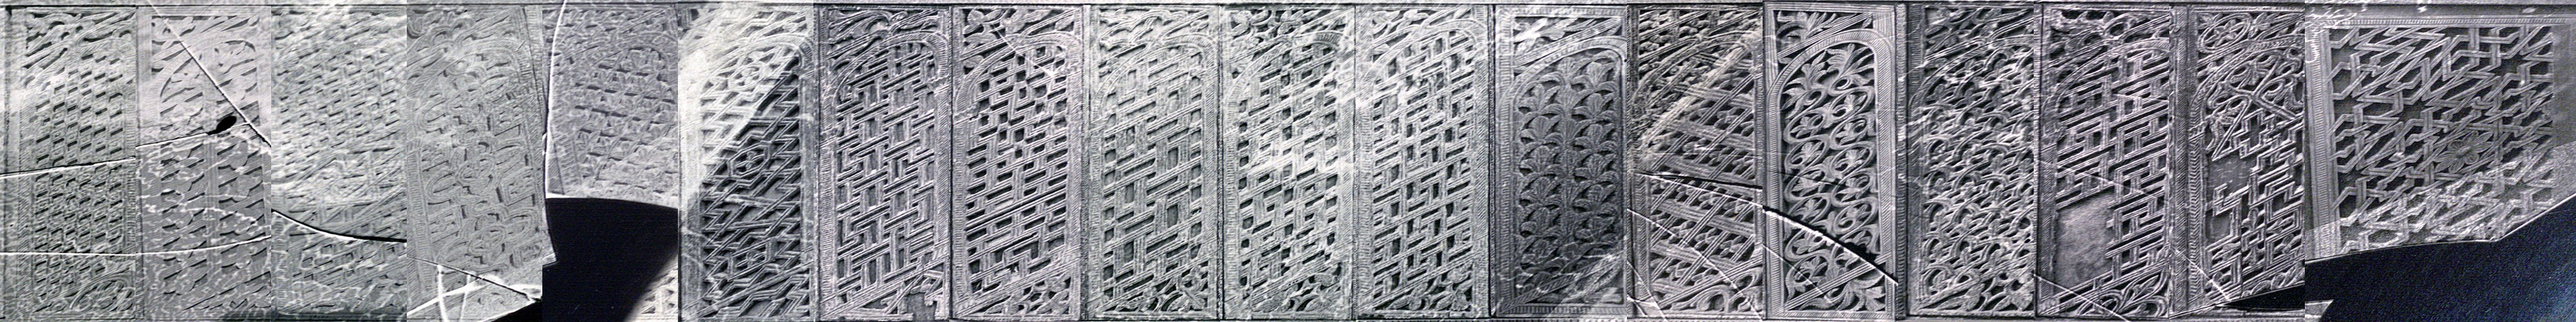
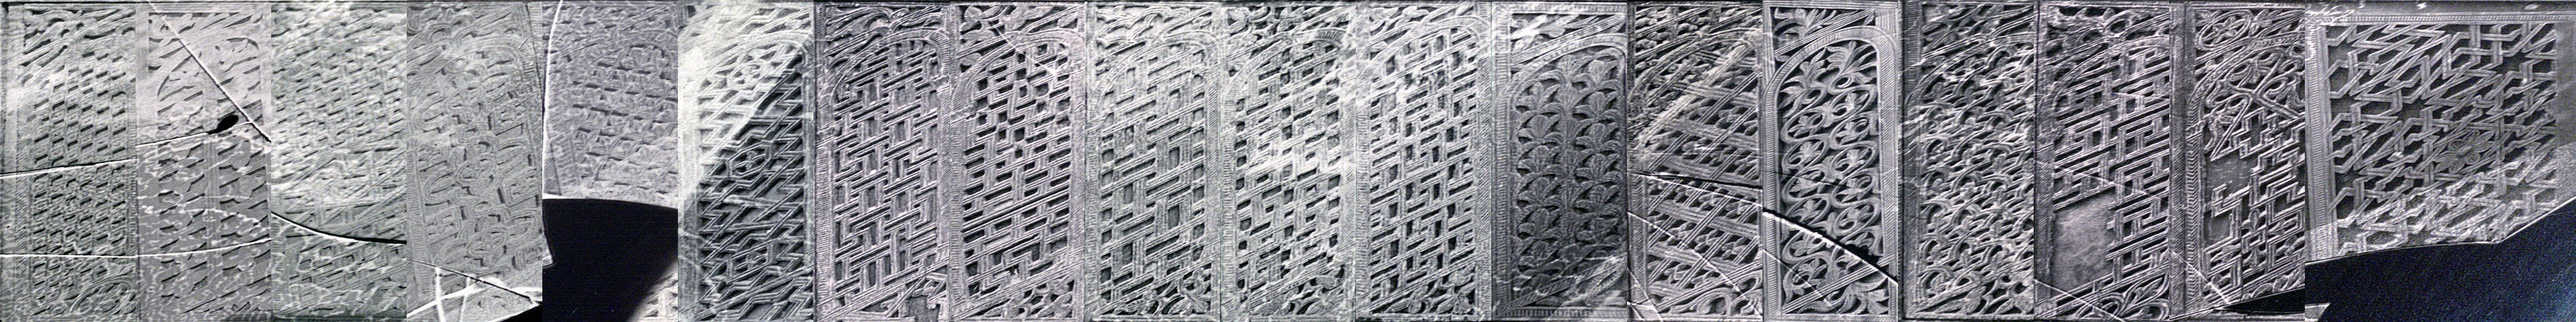
3D model: rail panels at the size of the actual panels
On the mihrab-side rail each panel box is re-measured on Creswell's
photograph (the whole panel between its uprights, top member and bottom
bar); on the maqsura-side rail the widths of the panels and uprights are
measured on the restoration photographs. The rail photographs are cut
exactly to their panels.

diff --git a/3d/data.js b/3d/data.js
@@ -1,6 +1,6 @@
 // Panel outlines traced on Creswell 1940, Pl. 89a (image space 3000 x 2262), from ../index.html.
 // f<n>: position of Saladin's panel n on the mihrab-side face; b<j>: balustrade position j from the top.
-const SLOTS = [{"id":"f1","kind":"panel","n":1,"col":1,"row":1,"of":8,"pts":[[490,1985],[655,1985],[655,2065],[490,2065]]},{"id":"f14","kind":"panel","n":14,"col":1,"row":2,"of":8,"pts":[[490,1740],[655,1740],[655,1940],[490,1940]]},{"id":"f25","kind":"panel","n":25,"col":1,"row":3,"of":8,"pts":[[490,1495],[650,1495],[650,1695],[490,1695]]},{"id":"f34","kind":"panel","n":34,"col":1,"row":4,"of":8,"pts":[[490,1235],[650,1235],[650,1425],[490,1425]]},{"id":"f41","kind":"panel","n":41,"col":1,"row":5,"of":8,"pts":[[490,975],[655,975],[655,1185],[490,1185]]},{"id":"f46","kind":"panel","n":46,"col":1,"row":6,"of":8,"pts":[[490,720],[655,720],[655,935],[490,935]]},{"id":"f49","kind":"panel","n":49,"col":1,"row":7,"of":8,"pts":[[490,460],[660,460],[660,680],[490,680]]},{"id":"f51","kind":"panel","n":51,"col":1,"row":8,"of":8,"pts":[[495,200],[640,200],[640,390],[495,390]]},{"id":"f2","kind":"panel","n":2,"col":2,"row":1,"of":8,"pts":[[750,1870],[860,1870],[860,2065],[750,2065]]},{"id":"f15","kind":"panel","n":15,"col":2,"row":2,"of":8,"pts":[[750,1620],[870,1620],[870,1820],[750,1820]]},{"id":"f26","kind":"panel","n":26,"col":2,"row":3,"of":8,"pts":[[750,1365],[860,1365],[860,1565],[750,1565]]},{"id":"f35","kind":"panel","n":35,"col":2,"row":4,"of":8,"pts":[[750,1105],[860,1105],[860,1310],[750,1310]]},{"id":"f42","kind":"panel","n":42,"col":2,"row":5,"of":8,"pts":[[755,855],[865,855],[865,1050],[755,1050]]},{"id":"f47","kind":"panel","n":47,"col":2,"row":6,"of":8,"pts":[[750,735],[870,735],[870,800],[750,800]]},{"id":"f50","kind":"panel","n":50,"col":2,"row":7,"of":8,"pts":[[740,460],[848,460],[848,660],[740,660]]},{"id":"f52","kind":"panel","n":52,"col":2,"row":8,"of":8,"pts":[[737,245],[848,245],[848,425],[737,425]]},{"id":"f3","kind":"panel","n":3,"col":3,"row":1,"of":6,"pts":[[915,2015],[1035,2015],[1035,2070],[915,2070]]},{"id":"f16","kind":"panel","n":16,"col":3,"row":2,"of":6,"pts":[[915,1760],[1035,1760],[1035,1960],[915,1960]]},{"id":"f27","kind":"panel","n":27,"col":3,"row":3,"of":6,"pts":[[915,1495],[1035,1495],[1035,1710],[915,1710]]},{"id":"f36","kind":"panel","n":36,"col":3,"row":4,"of":6,"pts":[[920,1245],[1035,1245],[1035,1450],[920,1450]]},{"id":"f43","kind":"panel","n":43,"col":3,"row":5,"of":6,"pts":[[925,990],[1038,990],[1038,1190],[925,1190]]},{"id":"f48","kind":"panel","n":48,"col":3,"row":6,"of":6,"pts":[[925,740],[1040,740],[1040,940],[925,940]]},{"id":"f4","kind":"panel","n":4,"col":4,"row":1,"of":5,"pts":[[1120,1870],[1205,1870],[1205,2070],[1120,2070]]},{"id":"f17","kind":"panel","n":17,"col":4,"row":2,"of":5,"pts":[[1120,1620],[1205,1620],[1205,1820],[1120,1820]]},{"id":"f28","kind":"panel","n":28,"col":4,"row":3,"of":5,"pts":[[1122,1375],[1200,1375],[1200,1570],[1122,1570]]},{"id":"f37","kind":"panel","n":37,"col":4,"row":4,"of":5,"pts":[[1125,1105],[1200,1105],[1200,1315],[1125,1315]]},{"id":"f44","kind":"panel","n":44,"col":4,"row":5,"of":5,"pts":[[1125,878],[1200,878],[1200,1062],[1125,1062]]},{"id":"f5","kind":"panel","n":5,"col":5,"row":1,"of":5,"pts":[[1240,2010],[1355,2010],[1355,2085],[1240,2085]]},{"id":"f18","kind":"panel","n":18,"col":5,"row":2,"of":5,"pts":[[1240,1760],[1355,1760],[1355,1970],[1240,1970]]},{"id":"f29","kind":"panel","n":29,"col":5,"row":3,"of":5,"pts":[[1245,1505],[1355,1505],[1355,1705],[1245,1705]]},{"id":"f38","kind":"panel","n":38,"col":5,"row":4,"of":5,"pts":[[1250,1250],[1365,1250],[1365,1450],[1250,1450]]},{"id":"f45","kind":"panel","n":45,"col":5,"row":5,"of":5,"pts":[[1250,990],[1365,990],[1365,1195],[1250,1195]]},{"id":"f6","kind":"panel","n":6,"col":6,"row":1,"of":4,"pts":[[1405,1880],[1520,1880],[1520,2090],[1405,2090]]},{"id":"f19","kind":"panel","n":19,"col":6,"row":2,"of":4,"pts":[[1405,1625],[1525,1625],[1525,1840],[1405,1840]]},{"id":"f30","kind":"panel","n":30,"col":6,"row":3,"of":4,"pts":[[1410,1370],[1525,1370],[1525,1575],[1410,1575]]},{"id":"f39","kind":"panel","n":39,"col":6,"row":4,"of":4,"pts":[[1410,1110],[1525,1110],[1525,1320],[1410,1320]]},{"id":"f7","kind":"panel","n":7,"col":7,"row":1,"of":4,"pts":[[1595,2015],[1680,2015],[1680,2090],[1595,2090]]},{"id":"f20","kind":"panel","n":20,"col":7,"row":2,"of":4,"pts":[[1595,1760],[1680,1760],[1680,1970],[1595,1970]]},{"id":"f31","kind":"panel","n":31,"col":7,"row":3,"of":4,"pts":[[1595,1495],[1685,1495],[1685,1705],[1595,1705]]},{"id":"f40","kind":"panel","n":40,"col":7,"row":4,"of":4,"pts":[[1595,1230],[1695,1230],[1695,1460],[1595,1460]]},{"id":"f8","kind":"panel","n":8,"col":8,"row":1,"of":3,"pts":[[1730,1880],[1830,1880],[1830,2090],[1730,2090]]},{"id":"f21","kind":"panel","n":21,"col":8,"row":2,"of":3,"pts":[[1730,1635],[1835,1635],[1835,1835],[1730,1835]]},{"id":"f32","kind":"panel","n":32,"col":8,"row":3,"of":3,"pts":[[1735,1385],[1845,1385],[1845,1590],[1735,1590]]},{"id":"f9","kind":"panel","n":9,"col":9,"row":1,"of":3,"pts":[[1885,2005],[2000,2005],[2000,2085],[1885,2085]]},{"id":"f22","kind":"panel","n":22,"col":9,"row":2,"of":3,"pts":[[1885,1755],[2000,1755],[2000,1960],[1885,1960]]},{"id":"f33","kind":"panel","n":33,"col":9,"row":3,"of":3,"pts":[[1885,1490],[2005,1490],[2005,1700],[1885,1700]]},{"id":"f10","kind":"panel","n":10,"col":10,"row":1,"of":2,"pts":[[2050,1885],[2165,1885],[2165,2085],[2050,2085]]},{"id":"f23","kind":"panel","n":23,"col":10,"row":2,"of":2,"pts":[[2050,1630],[2165,1630],[2165,1835],[2050,1835]]},{"id":"f11","kind":"panel","n":11,"col":11,"row":1,"of":2,"pts":[[2205,2005],[2320,2005],[2320,2075],[2205,2075]]},{"id":"f24","kind":"panel","n":24,"col":11,"row":2,"of":2,"pts":[[2205,1750],[2325,1750],[2325,1965],[2205,1965]]},{"id":"f12","kind":"panel","n":12,"col":12,"row":1,"of":1,"pts":[[2370,1880],[2490,1880],[2490,2080],[2370,2080]]},{"id":"f13","kind":"panel","n":13,"col":13,"row":1,"of":1,"pts":[[2540,1870],[2650,1870],[2650,2070],[2540,2070]]},{"id":"f70","kind":"tri","n":70,"col":3,"pts":[[925,575],[1055,680],[925,680]]},{"id":"f71","kind":"tri","n":71,"col":4,"pts":[[1090,700],[1205,820],[1090,820]]},{"id":"f72","kind":"tri","n":72,"col":5,"pts":[[1248,850],[1375,940],[1248,940]]},{"id":"f73","kind":"tri","n":73,"col":6,"pts":[[1412,950],[1535,1060],[1412,1060]]},{"id":"f74","kind":"tri","n":74,"col":7,"pts":[[1580,1100],[1700,1195],[1580,1195]]},{"id":"f75","kind":"tri","n":75,"col":8,"pts":[[1735,1250],[1868,1335],[1735,1335]]},{"id":"f76","kind":"tri","n":76,"col":9,"pts":[[1900,1355],[2040,1450],[1900,1450]]},{"id":"f77","kind":"tri","n":77,"col":10,"pts":[[2055,1485],[2185,1582],[2055,1582]]},{"id":"f78","kind":"tri","n":78,"col":11,"pts":[[2210,1600],[2330,1698],[2210,1698]]},{"id":"f79","kind":"tri","n":79,"col":12,"pts":[[2375,1712],[2505,1832],[2375,1832]]},{"id":"b1","kind":"rail","pos":1,"was":68,"pts":[[930,290],[990,334],[990,540],[930,496]]},{"id":"b2","kind":"rail","pos":2,"was":67,"pts":[[1025,370],[1105,428],[1105,630],[1025,572]]},{"id":"b3","kind":"rail","pos":3,"was":65,"pts":[[1130,460],[1205,515],[1205,740],[1130,685]]},{"id":"b4","kind":"rail","pos":4,"was":60,"pts":[[1240,560],[1310,611],[1310,820],[1240,769]]},{"id":"b5","kind":"rail","pos":5,"was":64,"pts":[[1350,650],[1410,694],[1410,890],[1350,846]]},{"id":"b6","kind":"rail","pos":6,"was":56,"pts":[[1450,740],[1520,791],[1520,980],[1450,929]]},{"id":"b7","kind":"rail","pos":7,"was":63,"pts":[[1560,820],[1625,867],[1625,1055],[1560,1008]]},{"id":"b8","kind":"rail","pos":8,"was":61,"pts":[[1670,890],[1730,934],[1730,1140],[1670,1096]]},{"id":"b9","kind":"rail","pos":9,"was":59,"pts":[[1770,980],[1830,1024],[1830,1220],[1770,1176]]},{"id":"b10","kind":"rail","pos":10,"new":true,"pts":[[1872,1080],[1932,1124],[1932,1300],[1872,1256]]},{"id":"b11","kind":"rail","pos":11,"was":58,"pts":[[1970,1170],[2040,1221],[2040,1380],[1970,1329]]},{"id":"b12","kind":"rail","pos":12,"was":57,"pts":[[2080,1260],[2150,1311],[2150,1480],[2080,1429]]},{"id":"b13","kind":"rail","pos":13,"was":62,"pts":[[2185,1330],[2250,1377],[2250,1550],[2185,1503]]},{"id":"b14","kind":"rail","pos":14,"was":55,"pts":[[2300,1420],[2355,1460],[2355,1625],[2300,1585]]},{"id":"b15","kind":"rail","pos":15,"was":54,"pts":[[2400,1500],[2458,1542],[2458,1720],[2400,1678]]},{"id":"b16","kind":"rail","pos":16,"new":true,"pts":[[2510,1550],[2645,1649],[2645,1835],[2510,1736]]}];
+const SLOTS = [{"id":"f1","kind":"panel","n":1,"col":1,"row":1,"of":8,"pts":[[490,1985],[655,1985],[655,2065],[490,2065]]},{"id":"f14","kind":"panel","n":14,"col":1,"row":2,"of":8,"pts":[[490,1740],[655,1740],[655,1940],[490,1940]]},{"id":"f25","kind":"panel","n":25,"col":1,"row":3,"of":8,"pts":[[490,1495],[650,1495],[650,1695],[490,1695]]},{"id":"f34","kind":"panel","n":34,"col":1,"row":4,"of":8,"pts":[[490,1235],[650,1235],[650,1425],[490,1425]]},{"id":"f41","kind":"panel","n":41,"col":1,"row":5,"of":8,"pts":[[490,975],[655,975],[655,1185],[490,1185]]},{"id":"f46","kind":"panel","n":46,"col":1,"row":6,"of":8,"pts":[[490,720],[655,720],[655,935],[490,935]]},{"id":"f49","kind":"panel","n":49,"col":1,"row":7,"of":8,"pts":[[490,460],[660,460],[660,680],[490,680]]},{"id":"f51","kind":"panel","n":51,"col":1,"row":8,"of":8,"pts":[[495,200],[640,200],[640,390],[495,390]]},{"id":"f2","kind":"panel","n":2,"col":2,"row":1,"of":8,"pts":[[750,1870],[860,1870],[860,2065],[750,2065]]},{"id":"f15","kind":"panel","n":15,"col":2,"row":2,"of":8,"pts":[[750,1620],[870,1620],[870,1820],[750,1820]]},{"id":"f26","kind":"panel","n":26,"col":2,"row":3,"of":8,"pts":[[750,1365],[860,1365],[860,1565],[750,1565]]},{"id":"f35","kind":"panel","n":35,"col":2,"row":4,"of":8,"pts":[[750,1105],[860,1105],[860,1310],[750,1310]]},{"id":"f42","kind":"panel","n":42,"col":2,"row":5,"of":8,"pts":[[755,855],[865,855],[865,1050],[755,1050]]},{"id":"f47","kind":"panel","n":47,"col":2,"row":6,"of":8,"pts":[[750,735],[870,735],[870,800],[750,800]]},{"id":"f50","kind":"panel","n":50,"col":2,"row":7,"of":8,"pts":[[740,460],[848,460],[848,660],[740,660]]},{"id":"f52","kind":"panel","n":52,"col":2,"row":8,"of":8,"pts":[[737,245],[848,245],[848,425],[737,425]]},{"id":"f3","kind":"panel","n":3,"col":3,"row":1,"of":6,"pts":[[915,2015],[1035,2015],[1035,2070],[915,2070]]},{"id":"f16","kind":"panel","n":16,"col":3,"row":2,"of":6,"pts":[[915,1760],[1035,1760],[1035,1960],[915,1960]]},{"id":"f27","kind":"panel","n":27,"col":3,"row":3,"of":6,"pts":[[915,1495],[1035,1495],[1035,1710],[915,1710]]},{"id":"f36","kind":"panel","n":36,"col":3,"row":4,"of":6,"pts":[[920,1245],[1035,1245],[1035,1450],[920,1450]]},{"id":"f43","kind":"panel","n":43,"col":3,"row":5,"of":6,"pts":[[925,990],[1038,990],[1038,1190],[925,1190]]},{"id":"f48","kind":"panel","n":48,"col":3,"row":6,"of":6,"pts":[[925,740],[1040,740],[1040,940],[925,940]]},{"id":"f4","kind":"panel","n":4,"col":4,"row":1,"of":5,"pts":[[1120,1870],[1205,1870],[1205,2070],[1120,2070]]},{"id":"f17","kind":"panel","n":17,"col":4,"row":2,"of":5,"pts":[[1120,1620],[1205,1620],[1205,1820],[1120,1820]]},{"id":"f28","kind":"panel","n":28,"col":4,"row":3,"of":5,"pts":[[1122,1375],[1200,1375],[1200,1570],[1122,1570]]},{"id":"f37","kind":"panel","n":37,"col":4,"row":4,"of":5,"pts":[[1125,1105],[1200,1105],[1200,1315],[1125,1315]]},{"id":"f44","kind":"panel","n":44,"col":4,"row":5,"of":5,"pts":[[1125,878],[1200,878],[1200,1062],[1125,1062]]},{"id":"f5","kind":"panel","n":5,"col":5,"row":1,"of":5,"pts":[[1240,2010],[1355,2010],[1355,2085],[1240,2085]]},{"id":"f18","kind":"panel","n":18,"col":5,"row":2,"of":5,"pts":[[1240,1760],[1355,1760],[1355,1970],[1240,1970]]},{"id":"f29","kind":"panel","n":29,"col":5,"row":3,"of":5,"pts":[[1245,1505],[1355,1505],[1355,1705],[1245,1705]]},{"id":"f38","kind":"panel","n":38,"col":5,"row":4,"of":5,"pts":[[1250,1250],[1365,1250],[1365,1450],[1250,1450]]},{"id":"f45","kind":"panel","n":45,"col":5,"row":5,"of":5,"pts":[[1250,990],[1365,990],[1365,1195],[1250,1195]]},{"id":"f6","kind":"panel","n":6,"col":6,"row":1,"of":4,"pts":[[1405,1880],[1520,1880],[1520,2090],[1405,2090]]},{"id":"f19","kind":"panel","n":19,"col":6,"row":2,"of":4,"pts":[[1405,1625],[1525,1625],[1525,1840],[1405,1840]]},{"id":"f30","kind":"panel","n":30,"col":6,"row":3,"of":4,"pts":[[1410,1370],[1525,1370],[1525,1575],[1410,1575]]},{"id":"f39","kind":"panel","n":39,"col":6,"row":4,"of":4,"pts":[[1410,1110],[1525,1110],[1525,1320],[1410,1320]]},{"id":"f7","kind":"panel","n":7,"col":7,"row":1,"of":4,"pts":[[1595,2015],[1680,2015],[1680,2090],[1595,2090]]},{"id":"f20","kind":"panel","n":20,"col":7,"row":2,"of":4,"pts":[[1595,1760],[1680,1760],[1680,1970],[1595,1970]]},{"id":"f31","kind":"panel","n":31,"col":7,"row":3,"of":4,"pts":[[1595,1495],[1685,1495],[1685,1705],[1595,1705]]},{"id":"f40","kind":"panel","n":40,"col":7,"row":4,"of":4,"pts":[[1595,1230],[1695,1230],[1695,1460],[1595,1460]]},{"id":"f8","kind":"panel","n":8,"col":8,"row":1,"of":3,"pts":[[1730,1880],[1830,1880],[1830,2090],[1730,2090]]},{"id":"f21","kind":"panel","n":21,"col":8,"row":2,"of":3,"pts":[[1730,1635],[1835,1635],[1835,1835],[1730,1835]]},{"id":"f32","kind":"panel","n":32,"col":8,"row":3,"of":3,"pts":[[1735,1385],[1845,1385],[1845,1590],[1735,1590]]},{"id":"f9","kind":"panel","n":9,"col":9,"row":1,"of":3,"pts":[[1885,2005],[2000,2005],[2000,2085],[1885,2085]]},{"id":"f22","kind":"panel","n":22,"col":9,"row":2,"of":3,"pts":[[1885,1755],[2000,1755],[2000,1960],[1885,1960]]},{"id":"f33","kind":"panel","n":33,"col":9,"row":3,"of":3,"pts":[[1885,1490],[2005,1490],[2005,1700],[1885,1700]]},{"id":"f10","kind":"panel","n":10,"col":10,"row":1,"of":2,"pts":[[2050,1885],[2165,1885],[2165,2085],[2050,2085]]},{"id":"f23","kind":"panel","n":23,"col":10,"row":2,"of":2,"pts":[[2050,1630],[2165,1630],[2165,1835],[2050,1835]]},{"id":"f11","kind":"panel","n":11,"col":11,"row":1,"of":2,"pts":[[2205,2005],[2320,2005],[2320,2075],[2205,2075]]},{"id":"f24","kind":"panel","n":24,"col":11,"row":2,"of":2,"pts":[[2205,1750],[2325,1750],[2325,1965],[2205,1965]]},{"id":"f12","kind":"panel","n":12,"col":12,"row":1,"of":1,"pts":[[2370,1880],[2490,1880],[2490,2080],[2370,2080]]},{"id":"f13","kind":"panel","n":13,"col":13,"row":1,"of":1,"pts":[[2540,1870],[2650,1870],[2650,2070],[2540,2070]]},{"id":"f70","kind":"tri","n":70,"col":3,"pts":[[925,575],[1055,680],[925,680]]},{"id":"f71","kind":"tri","n":71,"col":4,"pts":[[1090,700],[1205,820],[1090,820]]},{"id":"f72","kind":"tri","n":72,"col":5,"pts":[[1248,850],[1375,940],[1248,940]]},{"id":"f73","kind":"tri","n":73,"col":6,"pts":[[1412,950],[1535,1060],[1412,1060]]},{"id":"f74","kind":"tri","n":74,"col":7,"pts":[[1580,1100],[1700,1195],[1580,1195]]},{"id":"f75","kind":"tri","n":75,"col":8,"pts":[[1735,1250],[1868,1335],[1735,1335]]},{"id":"f76","kind":"tri","n":76,"col":9,"pts":[[1900,1355],[2040,1450],[1900,1450]]},{"id":"f77","kind":"tri","n":77,"col":10,"pts":[[2055,1485],[2185,1582],[2055,1582]]},{"id":"f78","kind":"tri","n":78,"col":11,"pts":[[2210,1600],[2330,1698],[2210,1698]]},{"id":"f79","kind":"tri","n":79,"col":12,"pts":[[2375,1712],[2505,1832],[2375,1832]]},{"id":"b1","kind":"rail","pos":1,"was":68,"pts":[[927.0,275.6],[992.5,327.8],[992.5,567.8],[927.0,515.6]]},{"id":"b2","kind":"rail","pos":2,"was":67,"pts":[[1025.6,354.2],[1105.4,417.9],[1105.4,657.9],[1025.6,594.2]]},{"id":"b3","kind":"rail","pos":3,"was":65,"pts":[[1130.6,438.0],[1204.9,497.2],[1204.9,737.2],[1130.6,678.0]]},{"id":"b4","kind":"rail","pos":4,"was":60,"pts":[[1240.8,525.9],[1310.2,581.2],[1310.2,821.2],[1240.8,765.9]]},{"id":"b5","kind":"rail","pos":5,"was":64,"pts":[[1348.5,611.8],[1412.5,662.8],[1412.5,902.8],[1348.5,851.8]]},{"id":"b6","kind":"rail","pos":6,"was":56,"pts":[[1448.3,691.3],[1521.7,749.9],[1521.7,989.9],[1448.3,931.3]]},{"id":"b7","kind":"rail","pos":7,"was":63,"pts":[[1558.2,779.0],[1627.8,834.5],[1627.8,1074.5],[1558.2,1019.0]]},{"id":"b8","kind":"rail","pos":8,"was":61,"pts":[[1665.1,864.2],[1733.4,918.7],[1733.4,1158.7],[1665.1,1104.2]]},{"id":"b9","kind":"rail","pos":9,"was":59,"pts":[[1767.6,946.0],[1830.9,996.5],[1830.9,1236.5],[1767.6,1186.0]]},{"id":"b10","kind":"rail","pos":10,"new":true,"pts":[[1865.9,1024.4],[1933.1,1078.0],[1933.1,1318.0],[1865.9,1264.4]]},{"id":"b11","kind":"rail","pos":11,"was":58,"pts":[[1971.6,1108.7],[2041.9,1164.7],[2041.9,1404.7],[1971.6,1348.7]]},{"id":"b12","kind":"rail","pos":12,"was":57,"pts":[[2077.0,1192.7],[2151.0,1251.7],[2151.0,1491.7],[2077.0,1432.7]]},{"id":"b13","kind":"rail","pos":13,"was":62,"pts":[[2182.6,1276.9],[2251.4,1331.8],[2251.4,1571.8],[2182.6,1516.9]]},{"id":"b14","kind":"rail","pos":14,"was":55,"pts":[[2288.1,1361.1],[2356.9,1416.0],[2356.9,1656.0],[2288.1,1601.1]]},{"id":"b15","kind":"rail","pos":15,"was":54,"pts":[[2395.6,1446.8],[2464.4,1501.7],[2464.4,1741.7],[2395.6,1686.8]]},{"id":"b16","kind":"rail","pos":16,"new":true,"pts":[[2505.6,1534.5],[2646.9,1647.2],[2646.9,1887.2],[2505.6,1774.5]]}];
 // Reconstruction drawings from ../dr/web/, each on the position of its panel (edits.json decides the position).
 const DRAW = [{"n":1,"slot":"f1","note":"","v":[{"label":"grooved","src":"../dr/web/panel-1-grooved.jpg"},{"label":"pearled","src":"../dr/web/panel-1-pearled.jpg"}]},{"n":6,"slot":"f6","note":"","v":[{"label":"double line","src":"../dr/web/panel-6-double-line.jpg"}]},{"n":8,"slot":"f8","note":"","v":[{"label":"wood colour, grooved","src":"../dr/web/panel-8-wood-colour-grooved.jpg"}]},{"n":15,"slot":"f15","note":"","v":[{"label":"wood colour, braid B","src":"../dr/web/panel-15-wood-colour-braid-b.jpg"},{"label":"wood colour, braid A","src":"../dr/web/panel-15-wood-colour-braid-a.jpg"}]},{"n":16,"slot":"f16","note":"","v":[{"label":"double line","src":"../dr/web/panel-16-double-line.jpg"}]},{"n":17,"slot":"f17","note":"","v":[{"label":"single line, unfinished","src":"../dr/web/panel-17-single-line-unfinished.jpg"}]},{"n":18,"slot":"f18","note":"","v":[{"label":"grooved","src":"../dr/web/panel-18-grooved.jpg"},{"label":"pearled","src":"../dr/web/panel-18-pearled.jpg"}]},{"n":22,"slot":"f22","note":"","v":[{"label":"wood colour","src":"../dr/web/panel-22-wood-colour.jpg"}]},{"n":23,"slot":"f23","note":"","v":[{"label":"grooved","src":"../dr/web/panel-23-grooved.jpg"},{"label":"pearled","src":"../dr/web/panel-23-pearled.jpg"}]},{"n":24,"slot":"f24","note":"","v":[{"label":"double line","src":"../dr/web/panel-24-double-line.jpg"}]},{"n":32,"slot":"f32","note":"","v":[{"label":"double line","src":"../dr/web/panel-32-double-line.jpg"}]},{"n":35,"slot":"f35","note":"","v":[{"label":"double line","src":"../dr/web/panel-35-double-line.jpg"}]},{"n":36,"slot":"f36","note":"","v":[{"label":"wood colour","src":"../dr/web/panel-36-wood-colour.jpg"}]},{"n":37,"slot":"f37","note":"","v":[{"label":"grooved","src":"../dr/web/panel-37-grooved.jpg"},{"label":"pearled","src":"../dr/web/panel-37-pearled.jpg"}]},{"n":38,"slot":"f38","note":"","v":[{"label":"grooved","src":"../dr/web/panel-38-grooved.jpg"},{"label":"pearled","src":"../dr/web/panel-38-pearled.jpg"}]},{"n":41,"slot":"f41","note":"","v":[{"label":"double line, unfinished","src":"../dr/web/panel-41-double-line-unfinished.jpg"}]},{"n":42,"slot":"f42","note":"","v":[{"label":"double line","src":"../dr/web/panel-42-double-line.jpg"}]},{"n":43,"slot":"f43","note":"","v":[{"label":"grooved","src":"../dr/web/panel-43-grooved.jpg"},{"label":"pearled","src":"../dr/web/panel-43-pearled.jpg"}]},{"n":47,"slot":"f47","note":"","v":[{"label":"double line","src":"../dr/web/panel-47-double-line.jpg"}]},{"n":48,"slot":"f48","note":"","v":[{"label":"wood colour","src":"../dr/web/panel-48-wood-colour.jpg"}]},{"n":50,"slot":"f50","note":"This is the panel that stood here before 1907; the saved edits mark it as no longer on the minbar","v":[{"label":"wood colour, braid B","src":"../dr/web/panel-50-wood-colour-braid-b.jpg"}]}];
 // Outlines on the photograph of before 1907 (Garrigues no. 271, image space 3600 x 2629), by Saladin number.
@@ -9,3 +9,6 @@ const BEFORE = {"1":[[885,2248],[1058,2248],[1058,2340],[885,2340]],"2":[[1140,2
 const BAL = {1:null,2:15,3:14,4:6,5:12,6:11,7:9,8:4,9:8,10:13,11:7,12:5,13:3,14:null,15:2,16:1,17:null};
 // Golvin 1970, fig. 84: his numbers by Creswell position, as on the panel site (the stair rail is 63-78).
 const GOLVIN = {"f51":1,"f49":2,"f46":3,"f41":4,"f34":5,"f25":6,"f14":7,"f1":8,"f52":9,"f50":10,"f47":11,"f42":12,"f35":13,"f26":14,"f15":15,"f2":16,"f70":17,"f48":18,"f43":19,"f36":20,"f27":21,"f16":22,"f3":23,"f71":24,"f44":25,"f37":26,"f28":27,"f17":28,"f4":29,"f72":30,"f45":31,"f38":32,"f29":33,"f18":34,"f5":35,"f73":36,"f39":37,"f30":38,"f19":39,"f6":40,"f74":41,"f40":42,"f31":43,"f20":44,"f7":45,"f75":46,"f32":47,"f21":48,"f8":49,"f76":50,"f33":51,"f22":52,"f9":53,"f77":54,"f23":55,"f10":56,"f78":57,"f24":58,"f11":59,"f79":60,"f12":61,"f13":62,"b1":63,"b2":64,"b3":65,"b4":66,"b5":67,"b6":68,"b7":69,"b8":70,"b9":71,"b10":72,"b11":73,"b12":74,"b13":75,"b14":76,"b15":77,"b16":78};
+// The maqsura-side rail: 18 panels, their widths and gaps measured on the photographs of the rail laid flat (both faces averaged),
+// set on the same length of rail as the mihrab-side one. Same image space as SLOTS.
+const RAILQ = [{"pos":1,"pts":[[927.0,275.6],[988.3,324.5],[988.3,564.5],[927.0,515.6]]},{"pos":2,"pts":[[1023.0,352.2],[1081.5,398.8],[1081.5,638.8],[1023.0,592.2]]},{"pos":3,"pts":[[1117.9,427.9],[1173.1,471.9],[1173.1,711.9],[1117.9,667.9]]},{"pos":4,"pts":[[1213.8,504.3],[1274.7,552.9],[1274.7,792.9],[1213.8,744.3]]},{"pos":5,"pts":[[1311.5,582.2],[1369.2,628.3],[1369.2,868.3],[1311.5,822.2]]},{"pos":6,"pts":[[1411.0,661.6],[1465.4,705.0],[1465.4,945.0],[1411.0,901.6]]},{"pos":7,"pts":[[1498.5,731.4],[1557.6,778.5],[1557.6,1018.5],[1498.5,971.4]]},{"pos":8,"pts":[[1591.7,805.7],[1646.6,849.5],[1646.6,1089.5],[1591.7,1045.7]]},{"pos":9,"pts":[[1679.2,875.5],[1739.8,923.8],[1739.8,1163.8],[1679.2,1115.5]]},{"pos":10,"pts":[[1774.8,951.7],[1835.0,999.7],[1835.0,1239.7],[1774.8,1191.7]]},{"pos":11,"pts":[[1866.9,1025.2],[1923.2,1070.1],[1923.2,1310.1],[1866.9,1265.2]]},{"pos":12,"pts":[[1963.9,1102.5],[2021.3,1148.3],[2021.3,1388.3],[1963.9,1342.5]]},{"pos":13,"pts":[[2053.4,1173.9],[2107.8,1217.3],[2107.8,1457.3],[2053.4,1413.9]]},{"pos":14,"pts":[[2148.5,1249.8],[2210.9,1299.5],[2210.9,1539.5],[2148.5,1489.8]]},{"pos":15,"pts":[[2238.1,1321.2],[2296.7,1367.9],[2296.7,1607.9],[2238.1,1561.2]]},{"pos":16,"pts":[[2336.8,1399.9],[2388.7,1441.3],[2388.7,1681.3],[2336.8,1639.9]]},{"pos":17,"pts":[[2428.8,1473.3],[2492.4,1524.0],[2492.4,1764.0],[2428.8,1713.3]]},{"pos":18,"pts":[[2534.2,1557.3],[2646.9,1647.2],[2646.9,1887.2],[2534.2,1797.3]]}];

diff --git a/3d/index.html b/3d/index.html
@@ -85,8 +85,8 @@
     <p>The reconstruction drawings are the ones on the panel site, drawn from photographs and not measured. Each is fitted to the traced outline of its panel, so its proportions follow the panel on Creswell's photograph and can differ a little from the drawing itself. The drawing of panel 50 stands where that panel was before 1907. The drawing of rail panel 66 is left out: that panel is not on the rail after 1907.</p>
     <p>Compare with the old photo puts Garrigues's photograph of before 1907 beside the model. Each pair of details is straightened to the same shape, so a panel can be checked against any place on the model. Where a panel is now is read from the edits saved on the panel site, in this browser if there are any; nothing here changes them.</p>
     <p>Estimated, not measured: the width (1.0 m), the height of the seat, the backrest and the posts. The maqsūra-side face is left blank.</p>
-    <p>Rail photos puts a photograph on every rail panel, cut from the six photographs of the new rails laid flat during the restoration (Bibliothèque de l'INHA, Collection Jacques Doucet, fonds Poinssot, Archives 106, 130, 03, scans 073 to 075, 078, 080 and 082; reproduced for research and study). Each is straightened and stretched to the outline of its panel, so proportions are approximate; black or white patches are breaks in the prints. With Rail photos off, the outside of the mihrab-side rail shows Creswell's photograph and the other three faces are plain panels.</p>
-    <p>The rail counts come from six photographs of the two new rails laid flat during the restoration (fonds Poinssot, scans 073 to 075, 078, 080 and 082), three for each face, joined into one image per face. Each rail was counted on both of its faces from a different set of photographs, and the two counts agree: 16 on the mihrab-side rail, which is also Creswell's count, and 18 on the maqsūra-side rail. The 18 are narrower, so both rails come out the same length. On the model the inside of the mihrab-side rail follows the positions of its outside, and the 18 of the maqsūra-side rail are set out evenly, so each of those panels is in the right order but not exactly in its place.</p>
+    <p>Rail photos puts a photograph on every rail panel, cut from the six photographs of the new rails laid flat during the restoration (Bibliothèque de l'INHA, Collection Jacques Doucet, fonds Poinssot, Archives 106, 130, 03, scans 073 to 075, 078, 080 and 082; reproduced for research and study). Each is straightened and set on its panel at the panel's own size: on the mihrab-side rail the panels are measured on Creswell's photograph, and on the maqsūra-side rail their widths and the uprights between them are measured on the restoration photographs. Black or white patches are breaks in the prints. With Rail photos off, the outside of the mihrab-side rail shows Creswell's photograph and the other three faces are plain panels.</p>
+    <p>The rail counts come from six photographs of the two new rails laid flat during the restoration (fonds Poinssot, scans 073 to 075, 078, 080 and 082), three for each face, joined into one image per face. Each rail was counted on both of its faces from a different set of photographs, and the two counts agree: 16 on the mihrab-side rail, which is also Creswell's count, and 18 on the maqsūra-side rail. The 18 are narrower, so both rails come out the same length. On the model the inside of the mihrab-side rail has the panels of its outside, and the 18 of the maqsūra-side rail are set on the same length of rail by their measured widths, good to about a fifth of a panel.</p>
   </details>
 </div>
 <div id="info"><span id="info-t">Point at a panel</span></div>
@@ -222,14 +222,10 @@ const infoOf = m => { const o = drawingOf(m); if (!o) return m.userData.info;
 
 // ---- the other three rail faces: plain panels in the positions of the outer ones
 const RAIL = SLOTS.filter(s => s.kind === "rail");
-// the maqsūra-side rail: 17 single panels and one of double width at the foot, set out evenly along the same rail (its panels are narrower)
-const RAILQ = (() => { const xa = 930, xb = 2645, p = (xb - xa) / 18.62, w = 0.62 * p, top = x => 290 + 0.7975 * (x - xa), h = x => 206 - 20 * (x - xa) / (xb - xa);
-  const quad = (x0, x1) => [[x0, top(x0)], [x1, top(x1)], [x1, top(x1) + h(x1)], [x0, top(x0) + h(x0)]];
-  return Array.from({length: 18}, (_, i) => ({pos: i + 1, pts: i < 17 ? quad(xa + i * p, xa + i * p + w) : quad(xa + 17 * p, xb)})); })();
 const FACES = [
   {name: "mihrab side, inside", face: 2, rail: RAIL, z: ZI - 0.003, ry: Math.PI, color: 0x6f8f7a, tag: "i", note: "Photograph of the new rail laid flat in 1907–10 (fonds Poinssot, scans 078, 080 and 082)"},
-  {name: "maqsūra side, outside", face: 4, rail: RAILQ, z: -ZO - 0.003, ry: Math.PI, color: 0x7f86a8, tag: "q", note: "Photograph of the new rail laid flat in 1907–10 (fonds Poinssot, scans 078, 080 and 082); the panels are set out evenly"},
-  {name: "maqsūra side, inside", face: 3, rail: RAILQ, z: -ZI + 0.003, ry: 0, color: 0x9a8f6a, tag: "qi", note: "Photograph of the new rail laid flat in 1907–10 (fonds Poinssot, scans 073, 074 and 075); the panels are set out evenly"},
+  {name: "maqsūra side, outside", face: 4, rail: RAILQ, z: -ZO - 0.003, ry: Math.PI, color: 0x7f86a8, tag: "q", note: "Photograph of the new rail laid flat in 1907–10 (fonds Poinssot, scans 078, 080 and 082)"},
+  {name: "maqsūra side, inside", face: 3, rail: RAILQ, z: -ZI + 0.003, ry: 0, color: 0x9a8f6a, tag: "qi", note: "Photograph of the new rail laid flat in 1907–10 (fonds Poinssot, scans 073, 074 and 075)"},
 ];
 FACES.forEach(f => f.rail.forEach(s => {
   const plain = new THREE.MeshStandardMaterial({color: f.color, roughness: 0.9, side: THREE.DoubleSide}), m = new THREE.Mesh(railGeo(s, f.rail.length), plain);

diff --git a/README.md b/README.md
@@ -12,7 +12,7 @@ Panels with a reconstruction drawing show it first in their card, and `dr/` hold
 
 ## 3D model
 
-`3d/` is a schematic model of the minbar after the 1907–10 restoration, linked from the main page. The mihrab-side face is Creswell's Pl. 89a scaled to his length of 3.93 m, with the panel outlines and numbers of this site; the reconstruction drawings sit on their panels. The stair has eleven risers with 38 panels, counted from photographs taken after 1910. The width, the seat, the backrest and the posts are estimates, the three rail faces without a photograph in place are plain panels (16 on the inside of the mihrab-side rail, 18 on each face of the maqsūra-side rail, counted on photographs of the new rails laid flat during the restoration), and the maqsūra side is blank. "Compare with the old photo" puts Garrigues no. 271 beside the model: hold a panel of before 1907 and point at places on the model to see both details side by side; where a panel is now is read from the saved edits and is not changed there. Rail photos puts a photograph on every rail panel of all four faces, cut from the photographs of the new rails laid flat during the restoration (`3d/rail/`, from fonds Poinssot scans 073-075, 078, 080 and 082); on the outside of the mihrab-side rail they show the state of 1907-10, which differs from Creswell's at position 13. Numbers are Saladin's, placed by the saved edits as on the main page, or Golvin's; the inside of the mihrab-side rail carries the number of its outside with r, and the maqsūra-side rail, which neither numbered, is q1 to q18 with r on its inside. `3d/lib/` holds three.js r128 (MIT licence).
+`3d/` is a schematic model of the minbar after the 1907–10 restoration, linked from the main page. The mihrab-side face is Creswell's Pl. 89a scaled to his length of 3.93 m, with the panel outlines and numbers of this site; the reconstruction drawings sit on their panels. The stair has eleven risers with 38 panels, counted from photographs taken after 1910. The width, the seat, the backrest and the posts are estimates, the three rail faces without a photograph in place are plain panels (16 on the inside of the mihrab-side rail, 18 on each face of the maqsūra-side rail, counted on photographs of the new rails laid flat during the restoration), and the maqsūra side is blank. "Compare with the old photo" puts Garrigues no. 271 beside the model: hold a panel of before 1907 and point at places on the model to see both details side by side; where a panel is now is read from the saved edits and is not changed there. Rail photos puts a photograph on every rail panel of all four faces, cut from the photographs of the new rails laid flat during the restoration (`3d/rail/`, from fonds Poinssot scans 073-075, 078, 080 and 082); on the outside of the mihrab-side rail they show the state of 1907-10, which differs from Creswell's at position 13. The rail panels of the model have the panels' own sizes: on the mihrab-side rail each box is the whole panel as measured on Creswell's photograph (larger than the outlines of the main page), and on the maqsūra-side rail the widths of the panels and of the uprights between them are measured on the restoration photographs. Numbers are Saladin's, placed by the saved edits as on the main page, or Golvin's; the inside of the mihrab-side rail carries the number of its outside with r, and the maqsūra-side rail, which neither numbered, is q1 to q18 with r on its inside. `3d/lib/` holds three.js r128 (MIT licence).
 
 ## Editing
 
